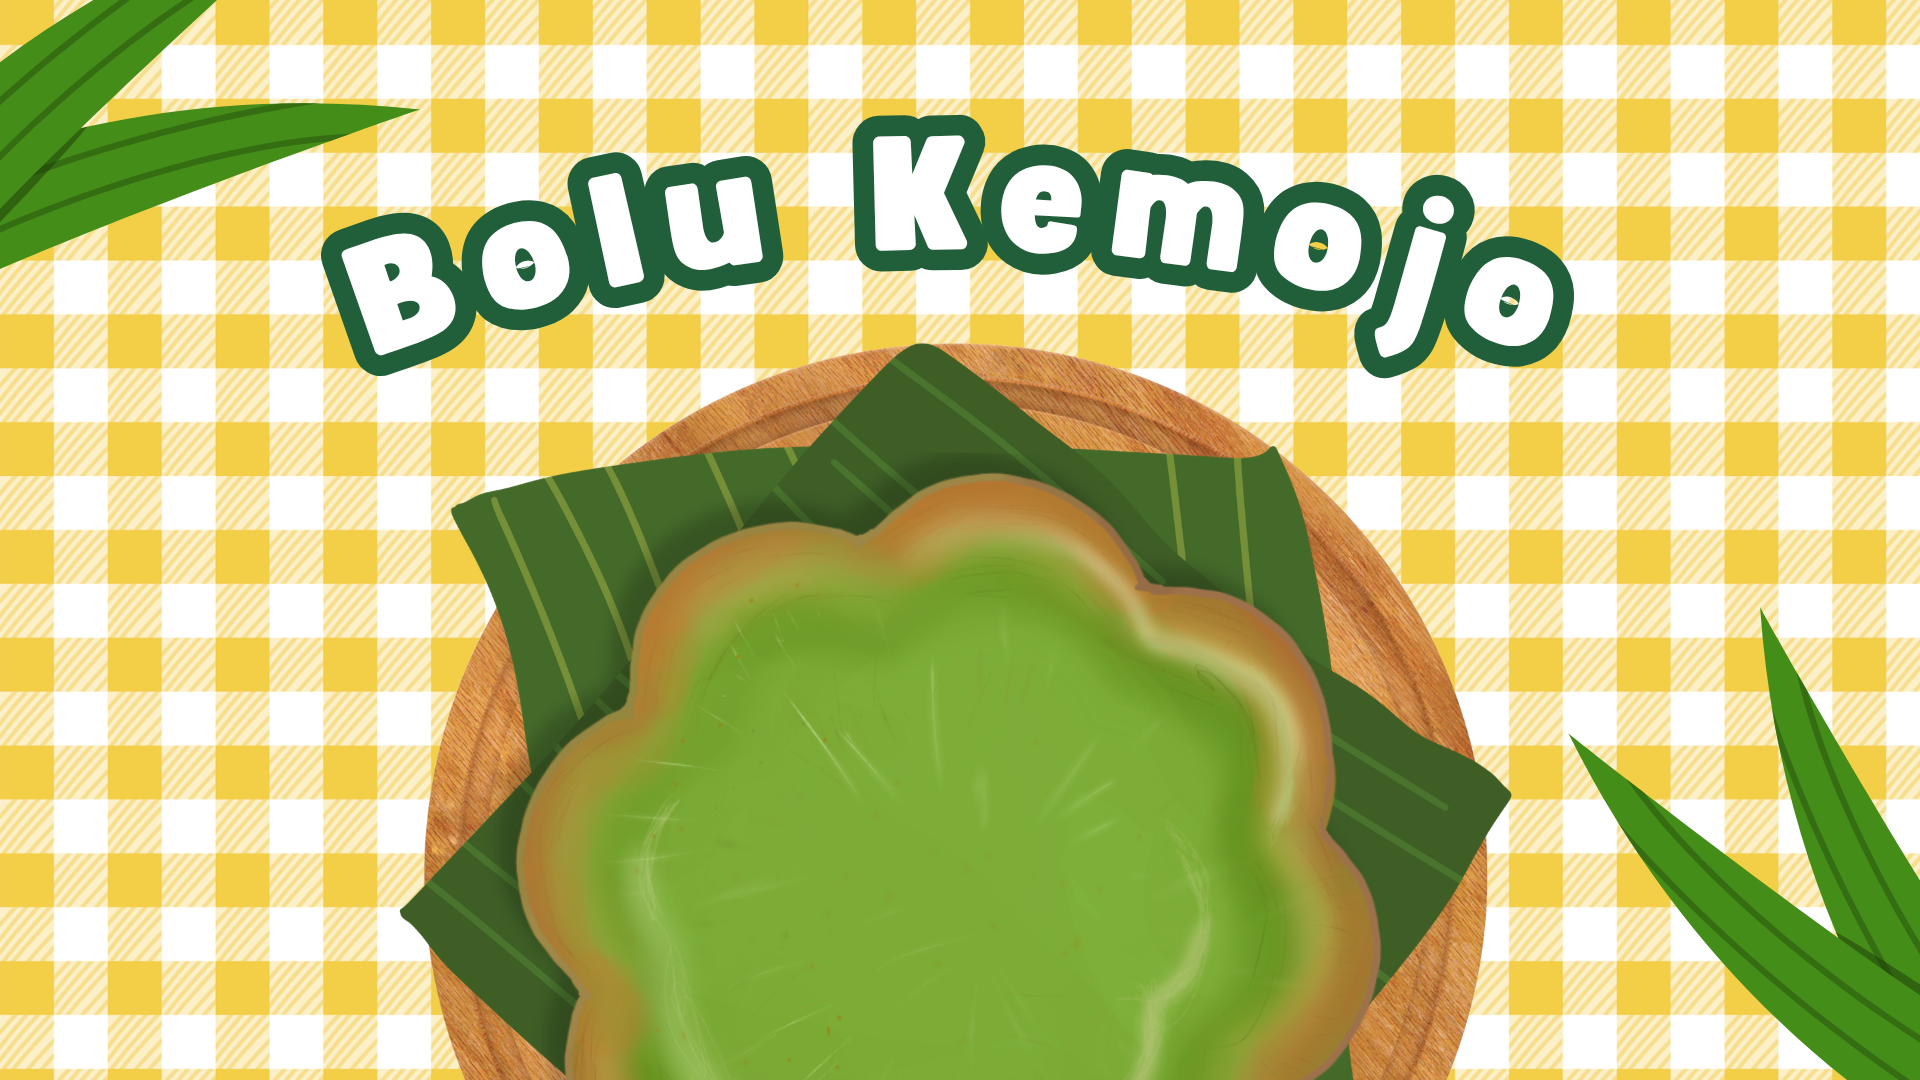
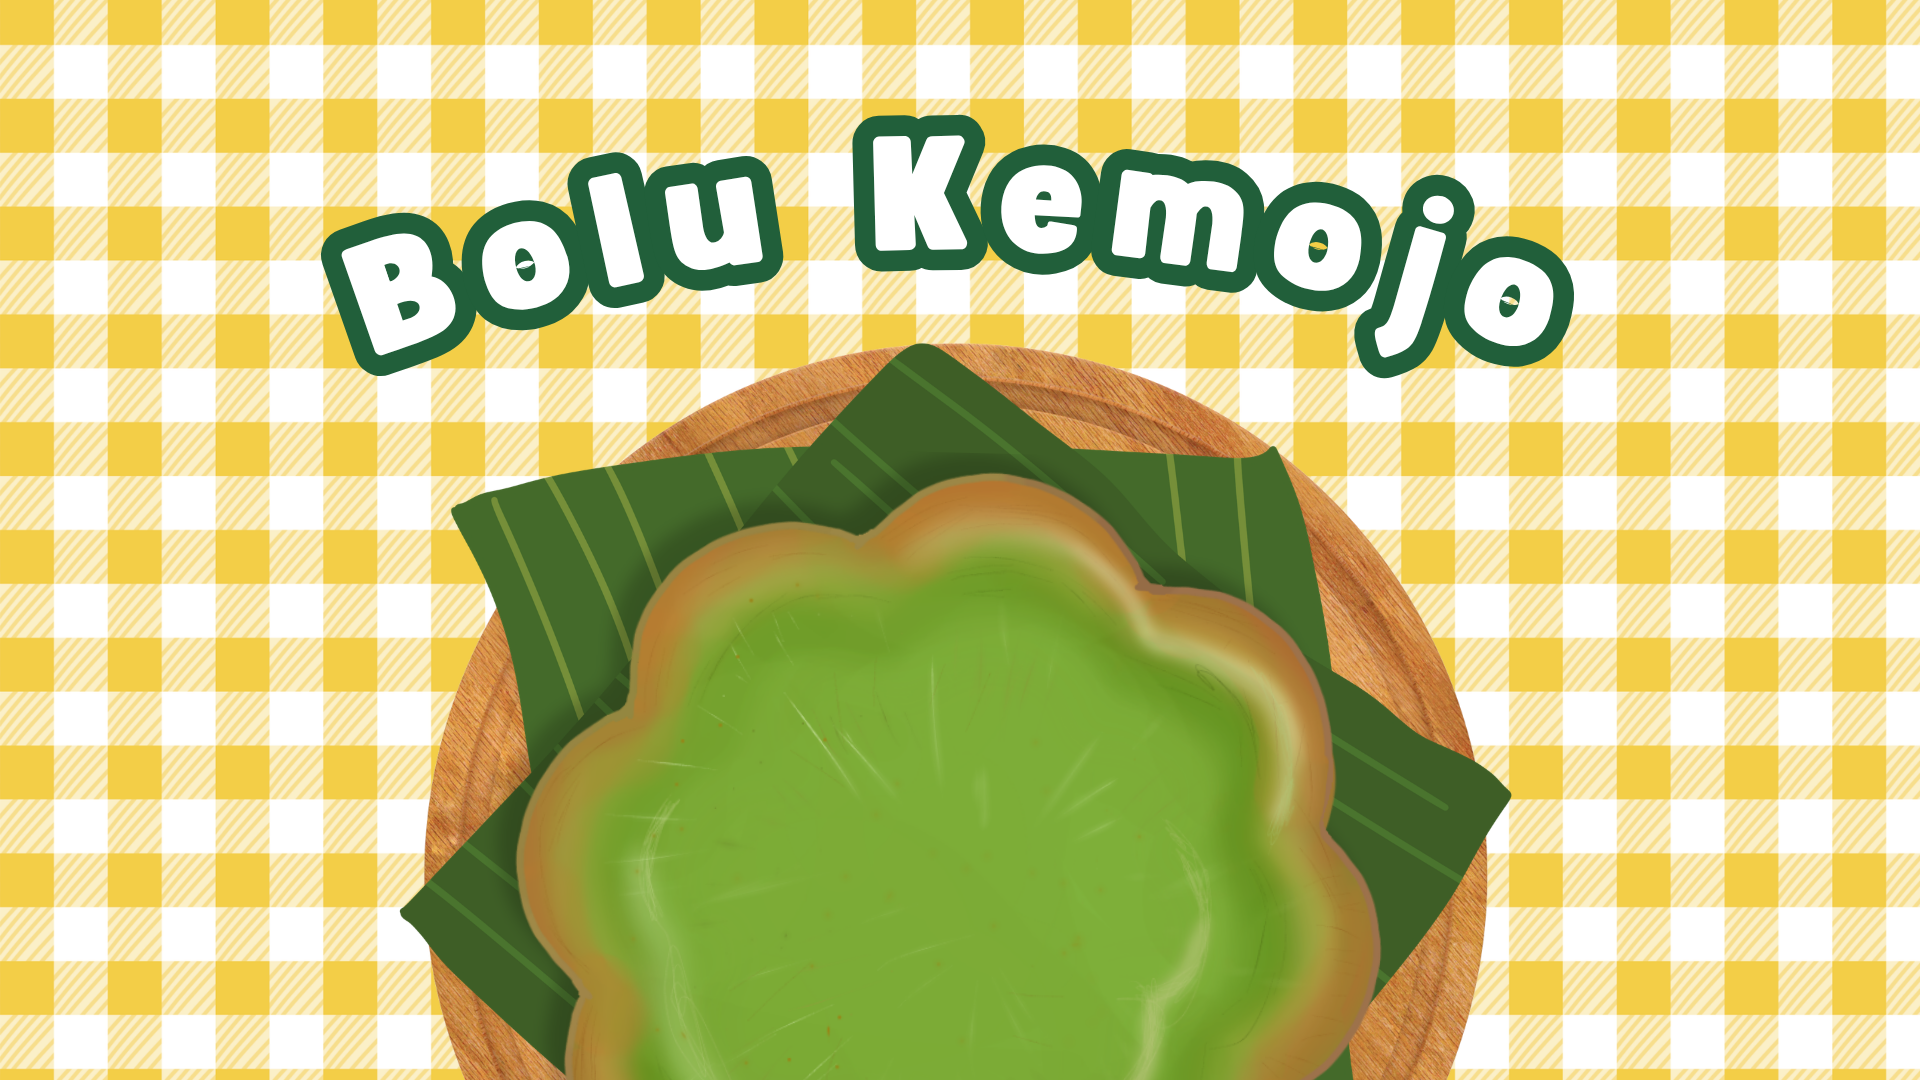
Refactor code structure for improved readability and maintainability

Changed region(s): [[0.8125, 0.5806, 1.0, 1.0], [0.0, 0.0, 0.2188, 0.2444]]

diff --git a/static/js/scenes/start.js b/static/js/scenes/start.js
@@ -10,6 +10,8 @@ import { audio, playOverlap } from "../audio.js"
 
 export const transitiongrid = new GridTransition()
 display.sceneTransition = transitiongrid
+
+
 const startButton = new UIButton(
     Sprites.ui.startButton.default,
     new Rect(0,500,700,300),
@@ -50,6 +52,45 @@ startButton.event.noevent = () => {
     }
 }
 
+class LeafDeco extends NodeObject {
+    constructor(rect,range,startDirection = 1) {
+        super(Sprites.bg.leaf,rect)
+        this.rotation.enable = true
+        this.animation = {
+            speed : 0.005,
+            currentSpeed : 0.005,
+            range : range,
+            direction : startDirection
+        }
+        this.rotation.value = this.animation.range[0]
+    }
+    update() {
+        if (this.animation.direction > 0) {
+            if (this.rotation.value < this.animation.range[1]) {
+                this.rotation.value += this.animation.currentSpeed
+                this.animation.currentSpeed *= 0.99
+            } else {
+                this.animation.direction = -1
+                this.animation.currentSpeed = this.animation.speed
+            }
+        } else if (this.animation.direction < 0) {
+            if (this.rotation.value > this.animation.range[0]) {
+                this.rotation.value -= this.animation.currentSpeed
+                this.animation.currentSpeed *= 0.99
+            } else {
+                this.animation.direction = 1
+                this.animation.currentSpeed = this.animation.speed
+            }
+        }
+    }
+}
+
+const leaf_1 = new LeafDeco(new Rect(-390,-250,700,700),[1.2,1.6])
+const leaf_2 = new LeafDeco(new Rect(0,0,700,700),[-1.6,-1.2])
+leaf_2.rect.center = displayRect.bottomright
+leaf_2.rect.y -= 100
+leaf_2.rect.x += 80
+
 /*
 const credit = new NodeObject(new Surface(650,100),new Rect(0,0,650,100))
 credit.sprite.context2D.fillStyle = "white"
@@ -62,6 +103,6 @@ const creditText = new UITextView(new Rect(logo.rect.right + 20,credit.rect.y + 
 */
 
 //const startSceneNodes = new NodeGroup([startButton,credit,logo,creditText])
-const startSceneNodes = new NodeGroup([startButton])
+const startSceneNodes = new NodeGroup([startButton,leaf_1,leaf_2])
 export const startScene = new Scene([startSceneNodes],Sprites.bg.start)
 

diff --git a/static/js/sprites.js b/static/js/sprites.js
@@ -4,6 +4,7 @@ import { imagePath } from "./path.js"
 export const Sprites = {
     bg:{
         start: await loadImage(imagePath("bg/start.png")),
+        leaf: await loadImage(imagePath("bg/leaf.png")),
         kitchen: await loadImage(imagePath("bg/kitchen.png")),
         tablecloth:await loadImage(imagePath("bg/tablecloth.png")),
         baking: {
